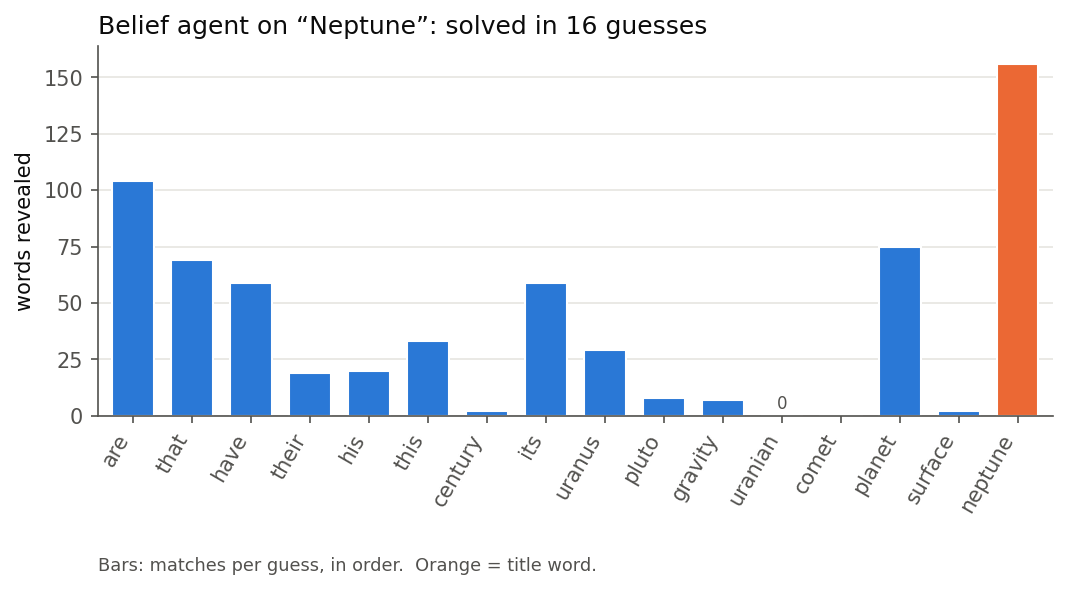
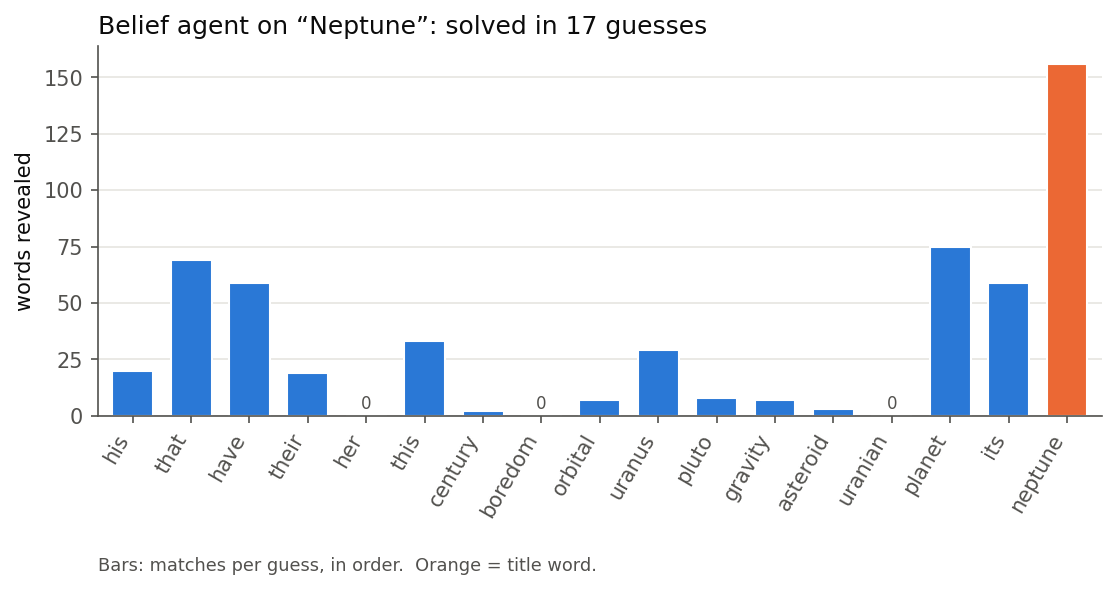
update which words are redacted

diff --git a/redact.py b/redact.py
@@ -2,8 +2,8 @@
 
 Rules (mirroring the original Redactle):
   * Punctuation and whitespace are always visible.
-  * A fixed list of common words (articles, prepositions, a few conjunctions /
-    verbs) is always visible. List taken from
+  * A fixed list of common words (articles, prepositions, a few conjunctions,
+    and every form of "be") is always visible. List taken from
     https://github.com/foobuzz/auto-redactle/blob/master/redactle-common-words.txt
   * Every other word is hidden as a block of the same length.
   * Matching is case-insensitive, ignores diacritics (é == e) and apostrophes
@@ -27,7 +27,11 @@ considering despite down during except following for from if in inside into is
 it like minus near next of off on onto opposite or out outside over past per
 plus regarding round save since than the through till to toward under
 underneath unlike until up upon versus via was with within without
-""".split())
+""".split()) | frozenset(
+    # All forms of "be" are shown too (the list above already has is/was);
+    # they share one match key, so hiding them would make "are" a free guess
+    # that reveals hundreds of words.
+    "am are be been being were".split())
 
 BLOCK = "█"  # █
 

diff --git a/tests/test_env.py b/tests/test_env.py
@@ -56,9 +56,11 @@ def test_invalid_guesses():
     assert info["reason"] == "already_guessed" and not info["valid"] and r == -1
     _, r, _, info = env.step("the")
     assert info["reason"] == "always_visible"
+    _, _, _, info = env.step("are")  # every form of "be" is always visible
+    assert info["reason"] == "always_visible"
     _, _, _, info = env.step("two words")
     assert info["reason"] == "not_a_word"
-    assert env.n_guesses == 4
+    assert env.n_guesses == 5
 
 
 def test_invalid_guesses_free_when_not_counted():
